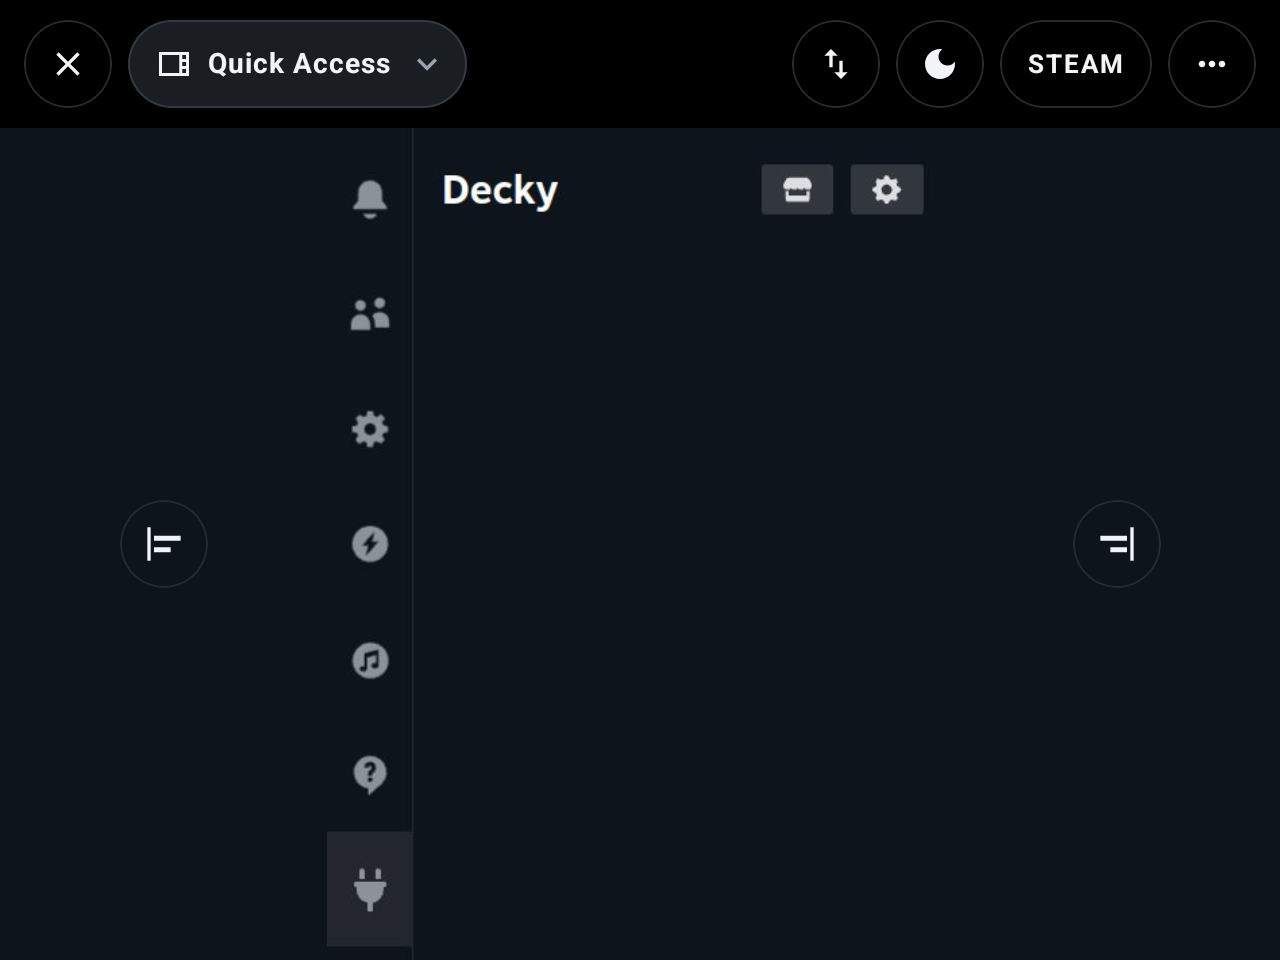
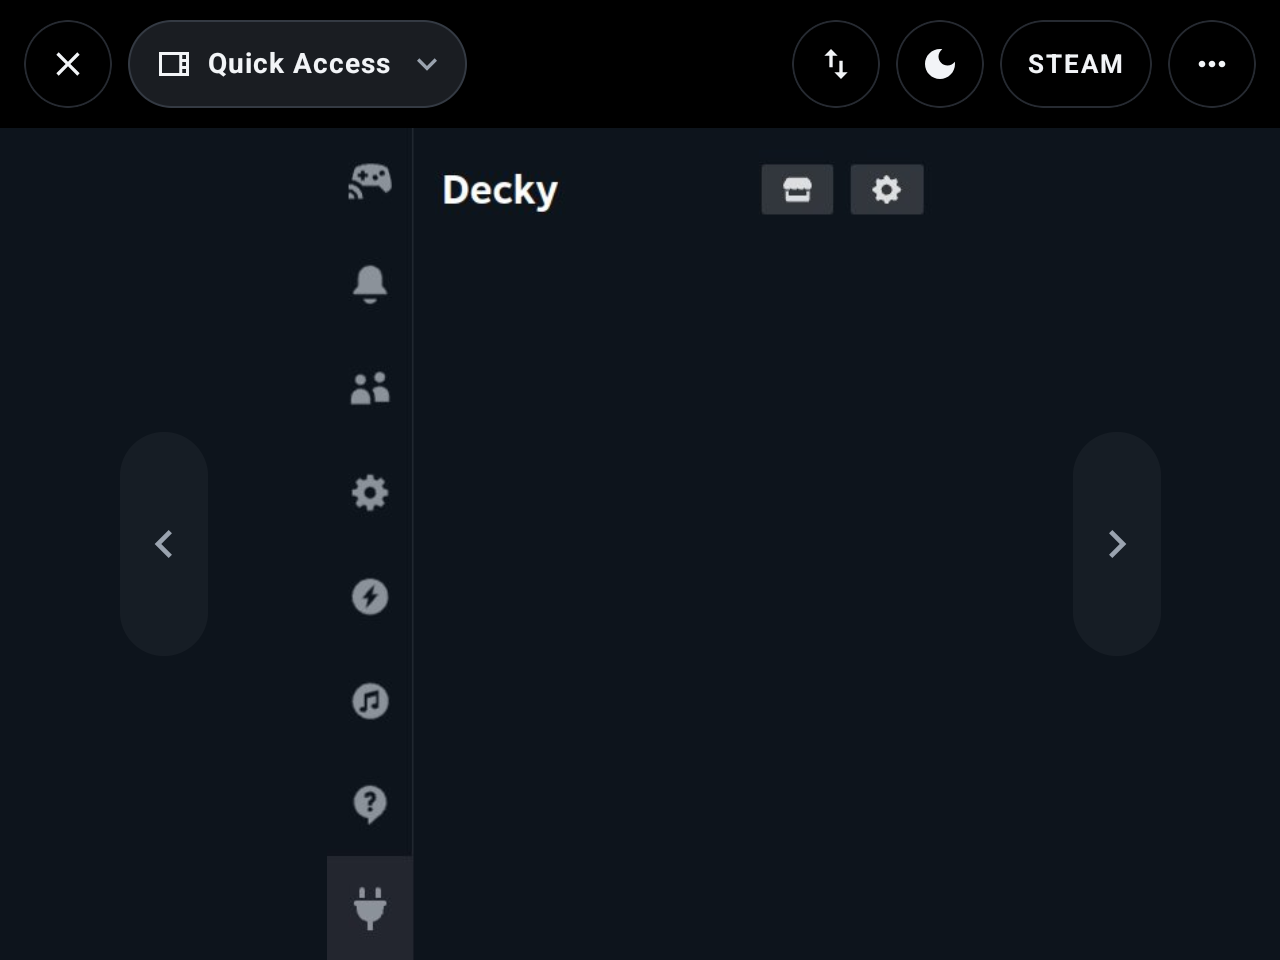
fix(bottom): quieter Quick Access move handles, instant reopen, Decky tab after a cold start

diff --git a/app/src/main/java/com/droiddeck/launcher/ui/BottomSteamQamPanel.kt b/app/src/main/java/com/droiddeck/launcher/ui/BottomSteamQamPanel.kt
@@ -3,17 +3,22 @@ package com.droiddeck.launcher.ui
 import android.graphics.BitmapFactory
 import android.util.Base64
 import androidx.compose.foundation.Canvas
+import androidx.compose.foundation.LocalIndication
 import androidx.compose.foundation.background
-import androidx.compose.foundation.layout.Arrangement
+import androidx.compose.foundation.clickable
+import androidx.compose.foundation.hoverable
+import androidx.compose.foundation.interaction.MutableInteractionSource
 import androidx.compose.foundation.layout.Box
 import androidx.compose.foundation.layout.BoxWithConstraints
-import androidx.compose.foundation.layout.Column
 import androidx.compose.foundation.layout.fillMaxSize
+import androidx.compose.foundation.layout.size
 import androidx.compose.foundation.layout.width
+import androidx.compose.foundation.shape.RoundedCornerShape
 import androidx.compose.material.icons.Icons
-import androidx.compose.material.icons.outlined.AlignHorizontalCenter
-import androidx.compose.material.icons.outlined.AlignHorizontalLeft
-import androidx.compose.material.icons.outlined.AlignHorizontalRight
+import androidx.compose.material.icons.filled.ChevronLeft
+import androidx.compose.material.icons.filled.ChevronRight
+import androidx.compose.material3.Icon
+import androidx.compose.material3.MaterialTheme
 import androidx.compose.runtime.Composable
 import androidx.compose.runtime.DisposableEffect
 import androidx.compose.runtime.LaunchedEffect
@@ -24,17 +29,22 @@ import androidx.compose.runtime.remember
 import androidx.compose.runtime.setValue
 import androidx.compose.ui.Alignment
 import androidx.compose.ui.Modifier
+import androidx.compose.ui.draw.clip
 import androidx.compose.ui.graphics.Color
 import androidx.compose.ui.graphics.FilterQuality
 import androidx.compose.ui.graphics.ImageBitmap
 import androidx.compose.ui.graphics.asAndroidBitmap
 import androidx.compose.ui.graphics.asImageBitmap
+import androidx.compose.ui.graphics.vector.ImageVector
 import androidx.compose.ui.input.pointer.PointerEventType
 import androidx.compose.ui.input.pointer.pointerInput
 import androidx.compose.ui.platform.LocalContext
 import androidx.compose.ui.platform.LocalDensity
 import androidx.compose.ui.platform.testTag
 import androidx.compose.ui.res.stringResource
+import androidx.compose.ui.semantics.Role
+import androidx.compose.ui.semantics.contentDescription
+import androidx.compose.ui.semantics.semantics
 import androidx.compose.ui.unit.IntOffset
 import androidx.compose.ui.unit.IntSize
 import androidx.compose.ui.unit.dp
@@ -79,16 +89,30 @@ internal object QamLayout {
 }
 
 private const val TICK_MS = 1_000L
+private const val FAST_TICK_MS = 150L
+
+/** The last frame shown, so returning to the panel shows the menu at once while the live stream reconnects. */
+private object QamCache {
+    @Volatile var image: ImageBitmap? = null
+    @Volatile var shape: FloatArray? = null
+}
 
 @Composable
 internal fun SteamQamPanel() {
     val context = LocalContext.current.applicationContext
-    var image by remember { mutableStateOf<ImageBitmap?>(null) }
-    var shape by remember { mutableStateOf<FloatArray?>(null) }
+    var image by remember { mutableStateOf(QamCache.image) }
+    var shape by remember { mutableStateOf(QamCache.shape) }
     var failed by remember { mutableStateOf(false) }
+    var slow by remember { mutableStateOf(false) }
+    LaunchedEffect(Unit) {
+        delay(2_500)
+        slow = true
+    }
     var align by remember { mutableIntStateOf(SessionPrefs.quickAccessAlign(context)) }
     val holder = remember { arrayOfNulls<CdpPage>(1) }
     val relay = remember { intArrayOf(0) }
+    val live = remember { java.util.concurrent.atomic.AtomicBoolean(false) }
+    val show = { frame: ImageBitmap -> image = frame; QamCache.image = frame; live.set(true) }
     DisposableEffect(Unit) {
         onDispose {
             val page = holder[0]
@@ -106,7 +130,7 @@ internal fun SteamQamPanel() {
             while (isActive) {
                 // Holding the menu before Steam's first frame keeps gamescope from presenting it.
                 if (SessionState.phase != SessionPhase.READY) {
-                    delay(TICK_MS)
+                    delay(FAST_TICK_MS)
                     continue
                 }
                 val open = SteamQam.hold(context)
@@ -115,13 +139,14 @@ internal fun SteamQamPanel() {
                     var page = holder[0]
                     if (page == null || page.closed) {
                         page?.close()
+                        live.set(false)
                         page = SteamQam.target(context)?.let { t ->
                             relay[0] = t.port
                             runCatching {
                                 CdpPage(t.port, t.path) { method, params ->
                                     if (method == "Page.screencastFrame") {
                                         holder[0]?.send("Page.screencastFrameAck", JSONObject().put("sessionId", params.optInt("sessionId")))
-                                        decodeFrame(params.optString("data"))?.let { image = it }
+                                        decodeFrame(params.optString("data"))?.let(show)
                                     }
                                 }
                             }.onFailure { android.util.Log.w("SteamQam", "devtools connect: $it") }.getOrNull()
@@ -132,19 +157,19 @@ internal fun SteamQamPanel() {
                             .put("maxWidth", 1920).put("maxHeight", 1440))
                     }
                     // The screencast sends frames only when the menu repaints, so a still menu needs one screenshot.
-                    if (image == null) {
+                    if (!live.get()) {
                         page?.call("Page.captureScreenshot", JSONObject().put("format", "jpeg").put("quality", 85))
-                            ?.optJSONObject("result")?.optString("data")?.let(::decodeFrame)?.let { image = it }
+                            ?.optJSONObject("result")?.optString("data")?.let(::decodeFrame)?.let(show)
                     }
                     (page?.evaluate(QamLayout.CONTENT_SCRIPT) as? String)?.let { text ->
                         runCatching {
                             val a = JSONArray(text)
                             val layout = floatArrayOf(a.getDouble(0).toFloat(), a.getDouble(1).toFloat(), a.getDouble(2).toFloat(), a.getDouble(3).toFloat())
-                            if (!layout.contentEquals(shape)) shape = layout
+                            if (!layout.contentEquals(shape)) { shape = layout; QamCache.shape = layout }
                         }
                     }
                 }
-                delay(TICK_MS)
+                delay(if (live.get()) TICK_MS else FAST_TICK_MS)
             }
         }
     }
@@ -154,7 +179,7 @@ internal fun SteamQamPanel() {
         if (img != null && l != null && l[0] > 0f) QamFrame(img, l[0], l[1], l[3].coerceIn(l[0] * 0.25f, l[0])) else null
     }
     if (f == null) {
-        PanelNote(stringResource(if (failed) R.string.bottom_qam_unavailable else R.string.achievements_reading))
+        if (slow) PanelNote(stringResource(if (failed) R.string.bottom_qam_unavailable else R.string.achievements_reading))
         return
     }
     BoxWithConstraints(Modifier.fillMaxSize().background(f.fill)) {
@@ -197,27 +222,36 @@ internal fun SteamQamPanel() {
         }
         val width = f.contentRight * scale
         val gap = with(density) { 64.dp.toPx() }
-        val choose = { a: Int -> align = a; SessionPrefs.setQuickAccessAlign(context, a) }
+        val move = { step: Int -> align = (align + step).coerceIn(-1, 1); SessionPrefs.setQuickAccessAlign(context, align) }
         if (left >= gap) {
-            AlignButtons((-1 until align).toList(), choose, Modifier.align(Alignment.CenterStart).width(with(density) { left.toDp() }))
+            Box(Modifier.align(Alignment.CenterStart).width(with(density) { left.toDp() }), contentAlignment = Alignment.Center) {
+                MoveHandle(stringResource(R.string.bottom_qam_align_left), Icons.Filled.ChevronLeft, Modifier.testTag("qam-move-left")) { move(-1) }
+            }
         }
         if (boxW - left - width >= gap) {
-            AlignButtons((align + 1..1).toList(), choose, Modifier.align(Alignment.CenterEnd).width(with(density) { (boxW - left - width).toDp() }))
+            Box(Modifier.align(Alignment.CenterEnd).width(with(density) { (boxW - left - width).toDp() }), contentAlignment = Alignment.Center) {
+                MoveHandle(stringResource(R.string.bottom_qam_align_right), Icons.Filled.ChevronRight, Modifier.testTag("qam-move-right")) { move(1) }
+            }
         }
     }
 }
 
 @Composable
-private fun AlignButtons(targets: List<Int>, choose: (Int) -> Unit, modifier: Modifier) {
-    Column(modifier, horizontalAlignment = Alignment.CenterHorizontally, verticalArrangement = Arrangement.spacedBy(12.dp)) {
-        for (a in targets) {
-            val (label, icon) = when (a) {
-                -1 -> R.string.bottom_qam_align_left to Icons.Outlined.AlignHorizontalLeft
-                0 -> R.string.bottom_qam_align_center to Icons.Outlined.AlignHorizontalCenter
-                else -> R.string.bottom_qam_align_right to Icons.Outlined.AlignHorizontalRight
-            }
-            BarButton(stringResource(label), Modifier.testTag("qam-align-$a"), vector = icon) { choose(a) }
-        }
+private fun MoveHandle(description: String, icon: ImageVector, modifier: Modifier, onClick: () -> Unit) {
+    val colors = MaterialTheme.colorScheme
+    val pal = LocalPalette.current
+    val src = remember { MutableInteractionSource() }
+    val hot = rememberHot(src)
+    val shape = RoundedCornerShape(22.dp)
+    Box(
+        contentAlignment = Alignment.Center,
+        modifier = modifier.size(width = 44.dp, height = 112.dp).semantics { contentDescription = description }
+            .clip(shape)
+            .background(if (hot) pal.signal.copy(alpha = 0.14f) else Color.White.copy(alpha = 0.04f))
+            .glideBorder(hot, shape, pal.signal)
+            .hoverable(src).clickable(interactionSource = src, indication = LocalIndication.current, role = Role.Button, onClick = onClick),
+    ) {
+        Icon(icon, contentDescription = null, tint = if (hot) pal.signal else colors.onSurfaceVariant, modifier = Modifier.size(28.dp))
     }
 }
 

diff --git a/app/src/main/java/com/droiddeck/launcher/session/SteamQam.kt b/app/src/main/java/com/droiddeck/launcher/session/SteamQam.kt
@@ -67,7 +67,13 @@ object SteamQam {
                 c.EnsureCorrectComposition?.();
                 return;
             }
-            if (m.m_eOpenSideMenu === 0) { m.OpenQuickAccessMenu(g.__ddQamTab ?? undefined); c.EnsureCorrectComposition?.(); }
+            const decky = !!g.DeckyPluginLoader?.tabsHook?.qamBrowserViewPatch;
+            if (m.m_eOpenSideMenu === QAM && decky && !g.__ddQamDecky) m.CloseSideMenus();
+            if (m.m_eOpenSideMenu === 0) {
+                m.OpenQuickAccessMenu(g.__ddQamTab ?? undefined);
+                g.__ddQamDecky = decky;
+                c.EnsureCorrectComposition?.();
+            }
             if (m.m_eOpenSideMenu !== QAM) return;
             if (m.m_eQuickAccessTab != null) g.__ddQamTab = m.m_eQuickAccessTab;
             if (!g.__ddQamOn) { g.__ddQamOn = true; c.EnsureCorrectComposition?.(); }

diff --git a/docs/development/bottom-screen.md b/docs/development/bottom-screen.md
@@ -173,10 +173,10 @@ Plugin loaders expose Steam's CEF DevTools so the menu can be viewed in a deskto
 - The menu's browser view is placed just outside the Big Picture window through its own `SetBounds`, so it keeps rendering but never shows on top, including while Steam slides it wider for Friends and chat.
 - A timer inside Steam keeps this state every 250 ms, so the menu comes back, on the tab it was showing, as soon as Steam's main menu or a full-screen page such as Decky's store closes. It runs on a 5 s lease that the panel renews each second: if the app stops, Steam returns to normal by itself.
 - The hold starts only once the session is ready: holding the menu before Steam's first frame kept gamescope from presenting anything.
-- `droiddeck-qam-relay` relays the app to the DevTools port, which only answers clients inside the guest. The panel streams the menu with `Page.startScreencast`, scales its content to the panel and fills the rest with the menu's own background, and forwards touches on the menu with `Input.dispatchTouchEvent`. When the menu is narrower than the panel, buttons in the free space move it left, centre or right; the choice is kept.
+- `droiddeck-qam-relay` relays the app to the DevTools port, which only answers clients inside the guest. The panel streams the menu with `Page.startScreencast`, scales its content to the panel and fills the rest with the menu's own background, and forwards touches on the menu with `Input.dispatchTouchEvent`. When the menu is narrower than the panel, a chevron in the free space on each side steps it left, centre or right; the choice is kept. Returning to the panel shows the last frame at once while the stream reconnects, and the first frame after a cold start takes about 1.4 s.
 - Leaving the panel closes the menu and turns the patches off; the Steam button and the normal Quick Access button then work as before. Opening Steam's main menu replaces the Quick Access menu for as long as it is open, as on a Deck.
 
-Checked with Decky Loader 3.3.1 enabled: its tab renders and takes touch, and its store opens full screen on top with the controller, then returns to the Decky tab below.
+Checked with Decky Loader 3.3.1 enabled: its tab renders and takes touch, and its store opens full screen on top with the controller, then returns to the Decky tab below. Decky hooks the menu after Steam starts, so the panel reopens it once when that happens.
 
 Limits: it relies on Steam's minified UI stores and method names, so a client update can break it; the panel then shows that the menu is not available.
 
